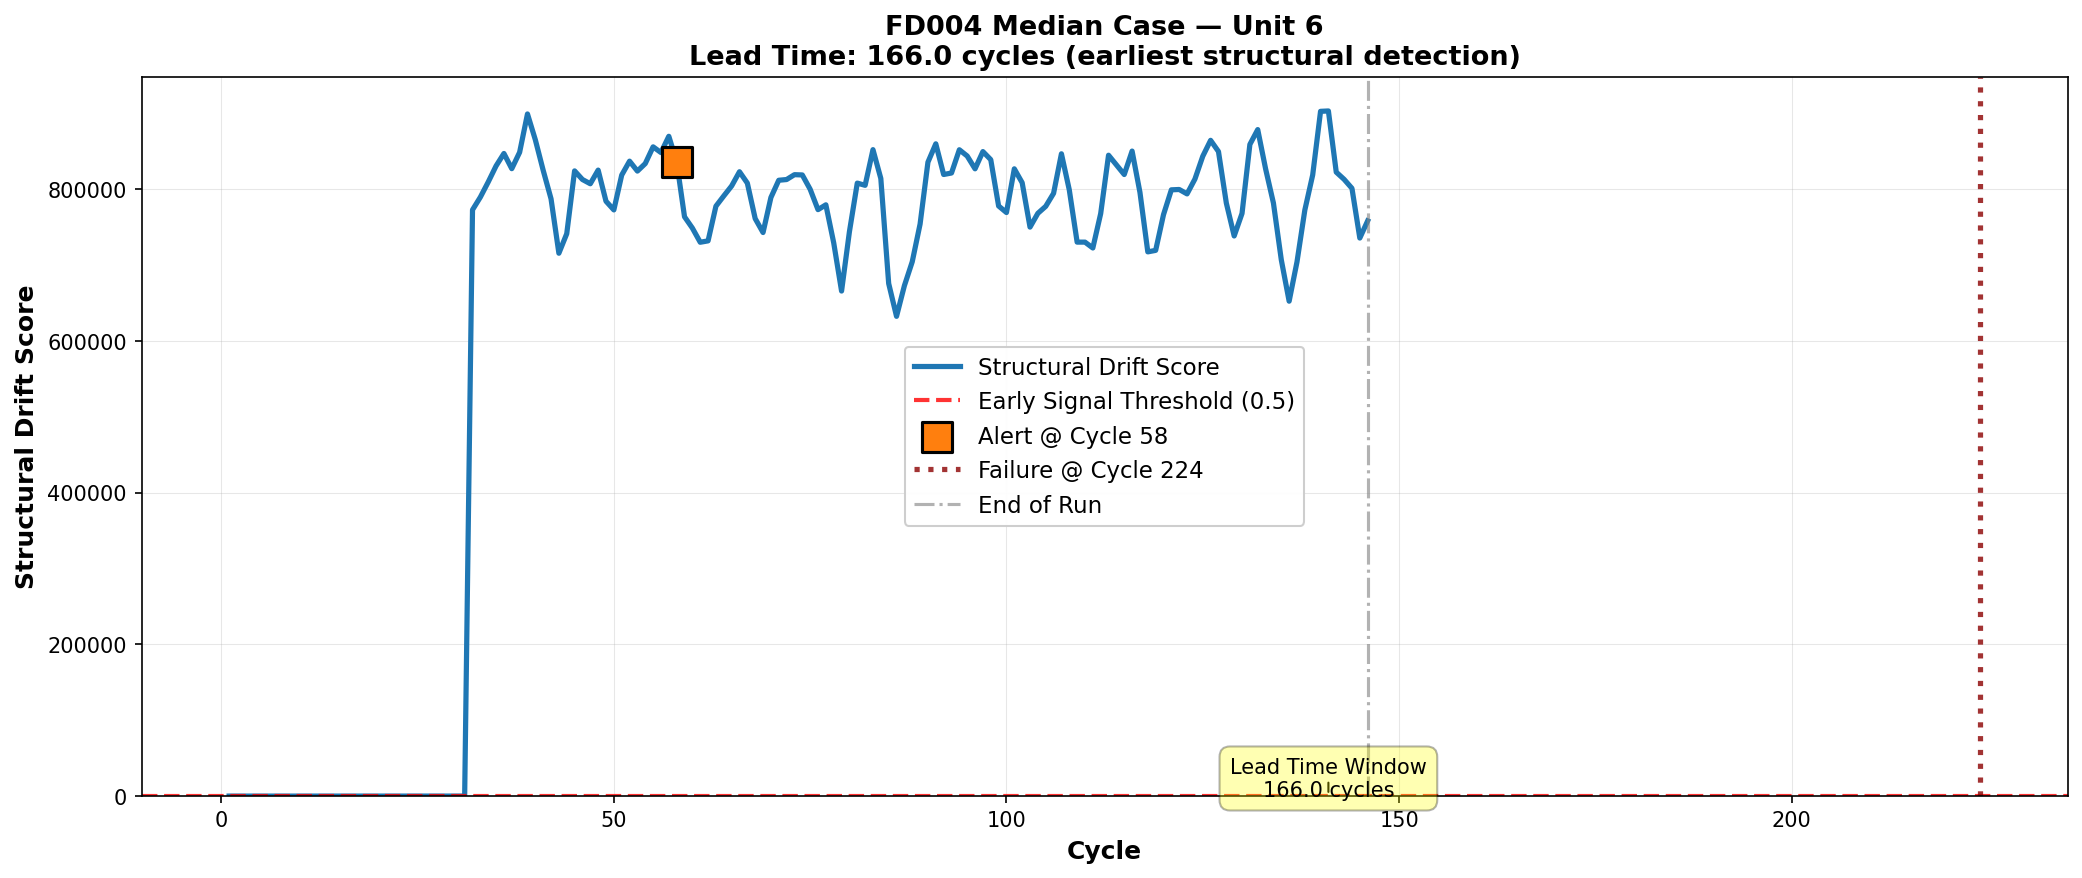
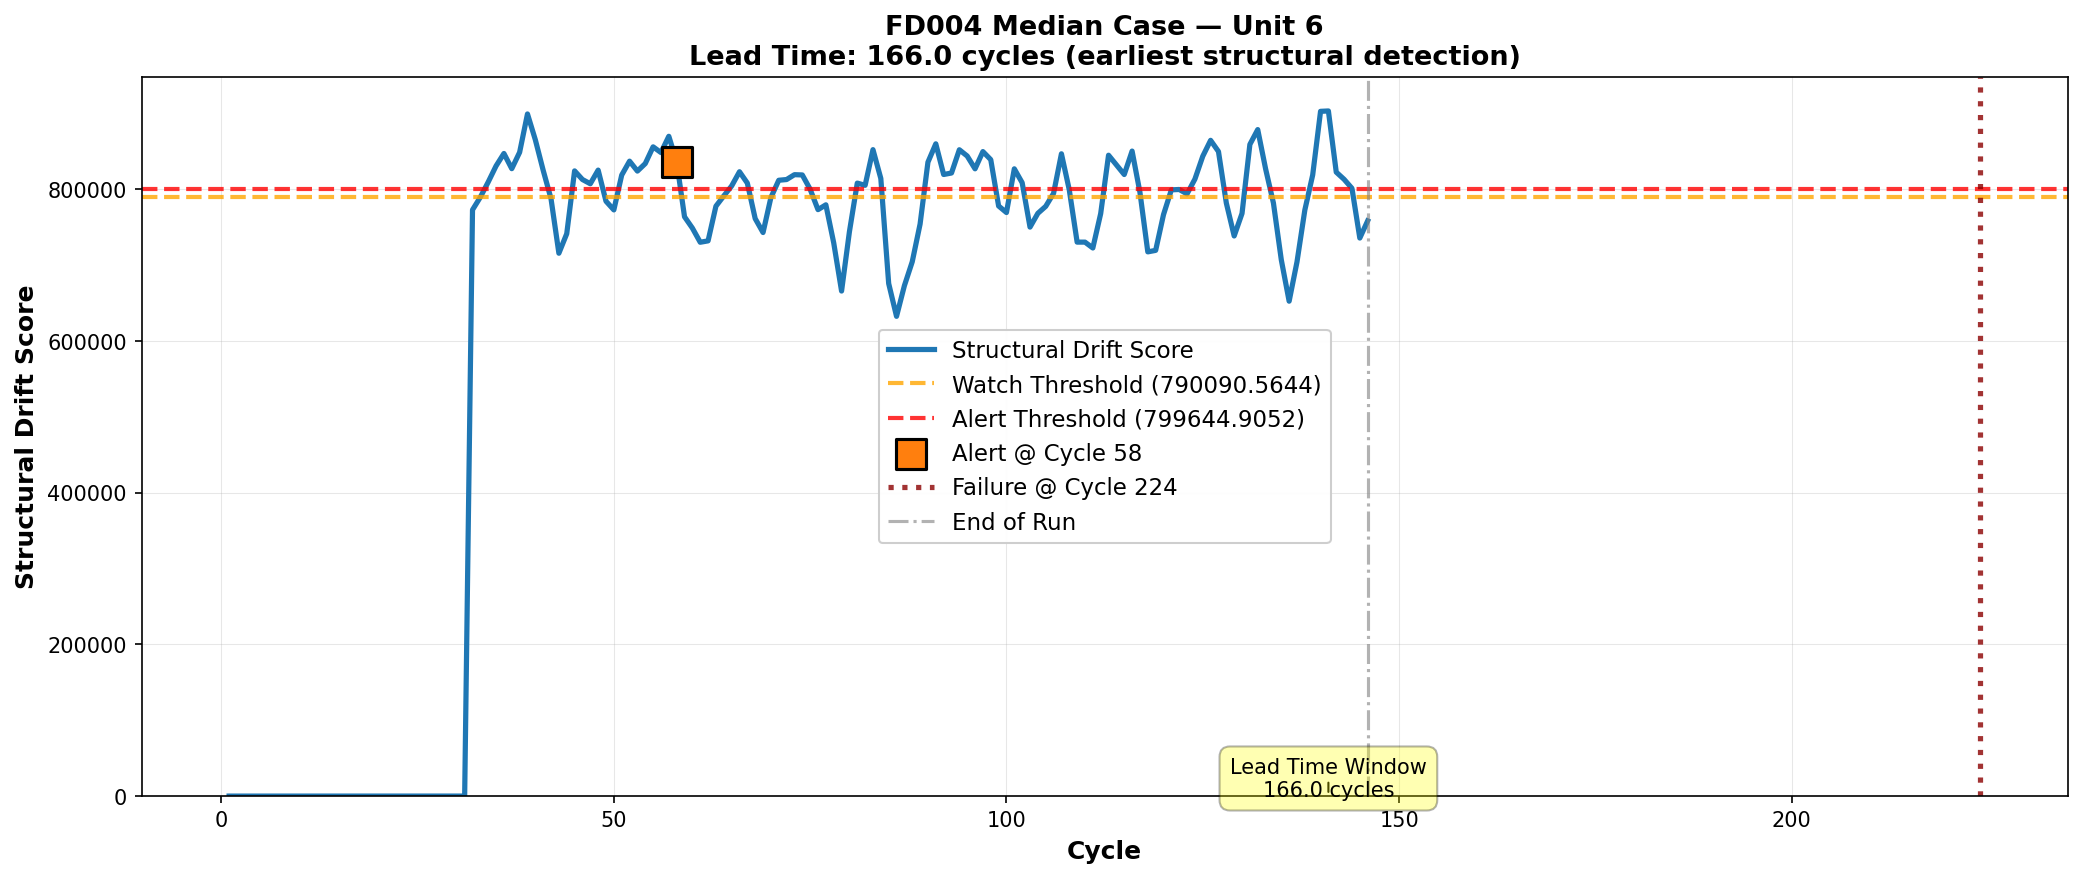
Use per-unit IMS policy thresholds instead of fixed drift threshold (#694)
* Fix drift threshold visualization to use actual per-unit quantile-based thresholds

- Replace hard-coded 0.5 threshold with actual per-unit thresholds computed from the IMS policy
- Load watch_threshold (65th percentile) and alert_threshold (85th percentile) from FD004_ims_policy_tuned_results.csv
- Display both thresholds in the plot to show the actual decision boundaries
- Add threshold values to console output for transparency

This fixes the misrepresentation where the visualization showed an apparently authoritative threshold unrelated to the alert markers being highlighted. The alert cycles are derived from per-unit quantile-based thresholds, not from a fixed 0.5 value.

https://claude.ai/code/session_01RwhKi4g3a9QhLLHnJXeqxk

* Update median case plot with corrected threshold visualization

Generated with fixed script that displays actual per-unit quantile-based thresholds.

https://claude.ai/code/session_01RwhKi4g3a9QhLLHnJXeqxk

---------

Changed region(s): [[0.4059, 0.369, 0.6556, 0.615], [0.0624, 0.2153, 0.999, 0.246]]

diff --git a/generate_fd004_median_plot.py b/generate_fd004_median_plot.py
@@ -32,6 +32,16 @@ if unit_data.empty:
     print(f"ERROR: No data for unit {median_unit}")
     exit(1)
 
+# Load IMS policy results to get actual per-unit thresholds
+policy_results = pd.read_csv("FD004_ims_policy_tuned_results.csv")
+unit_policy = policy_results[policy_results["unit"] == median_unit].iloc[0]
+watch_threshold = float(unit_policy["ims_watch_threshold"])
+alert_threshold = float(unit_policy["ims_alert_threshold"])
+
+print(f"\nThresholds for Unit {median_unit}:")
+print(f"  Watch Threshold (65th percentile): {watch_threshold:.4f}")
+print(f"  Alert Threshold (85th percentile): {alert_threshold:.4f}")
+
 # Get summary info
 unit_summary = scored[scored["unit"] == median_unit].iloc[0]
 alert_cycle = int(unit_summary["alert_cycle"]) if pd.notna(unit_summary["alert_cycle"]) else None
@@ -53,14 +63,21 @@ if "structural_drift_score" in unit_data.columns:
         color="#1f77b4",
     )
 
-# Plot early signal threshold
-drift_threshold = 0.5
+# Plot per-unit thresholds derived from quantiles
 ax.axhline(
-    y=drift_threshold,
+    y=watch_threshold,
+    color="orange",
+    linestyle="--",
+    linewidth=2,
+    label=f"Watch Threshold ({watch_threshold:.4f})",
+    alpha=0.8,
+)
+ax.axhline(
+    y=alert_threshold,
     color="red",
     linestyle="--",
     linewidth=2,
-    label=f"Early Signal Threshold ({drift_threshold})",
+    label=f"Alert Threshold ({alert_threshold:.4f})",
     alpha=0.8,
 )
 
